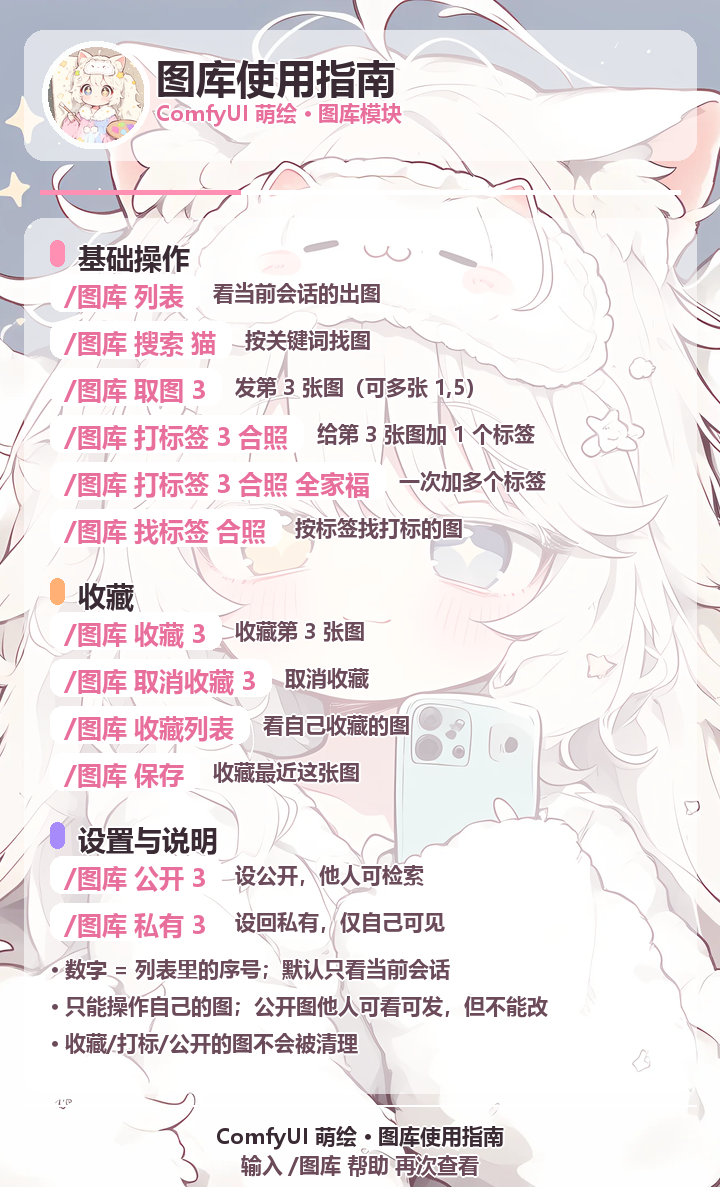
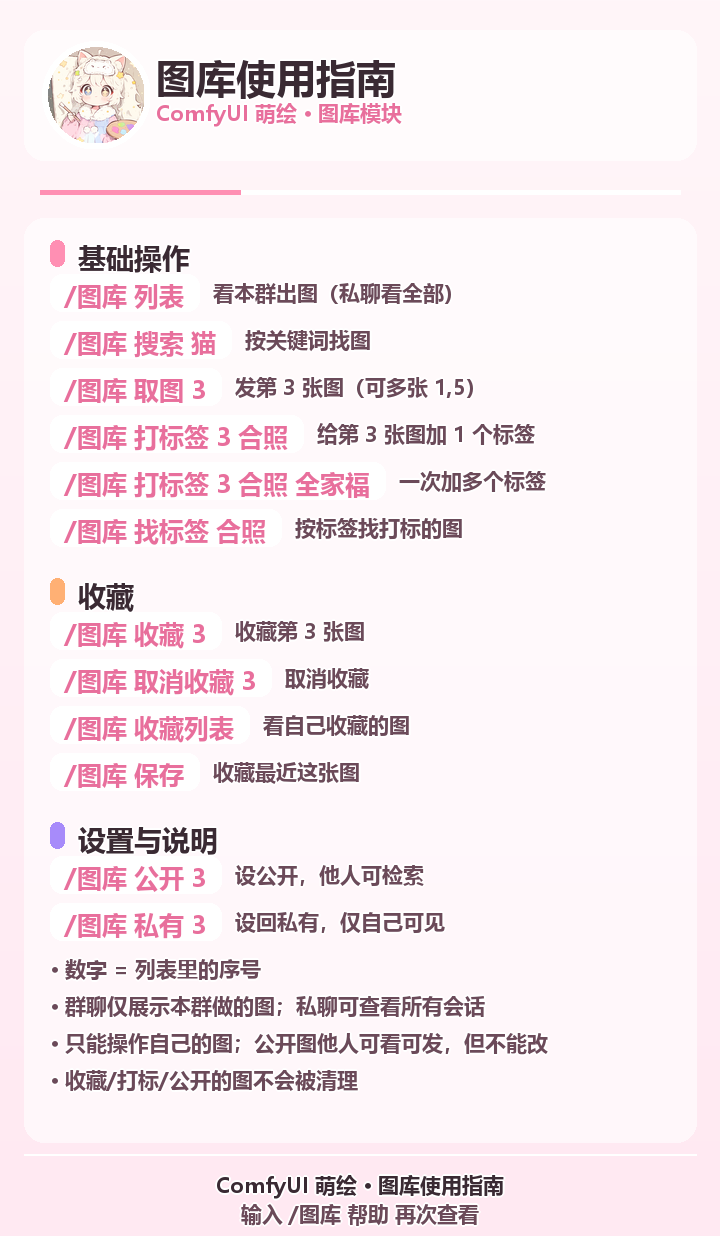
v4.6.2: 图库会话隔离策略调整（群聊仅本群，私聊看所有）
- 新增 _is_private_event(event) 判断私聊/群聊（优先 get_group_id，兜底 session_id）
- cmd_gallery session_scope：私聊跨会话(None)，群聊仅本群(event.session_id)
- comfyui_gallery LLM 工具召回/发送同步；管理员「全部」仍强制跨会话
- 帮助文字与 assets/gallery_help.png 文案同步更新

diff --git a/main.py b/main.py
@@ -3914,6 +3914,27 @@ class ComfyUIDrawPlugin(Star):
         bucket[sid] = ts_list
         return actual, ""
 
+    @staticmethod
+    def _is_private_event(event) -> bool:
+        """判断当前事件是否为私聊。
+
+        优先用 AstrBot 标准的 get_group_id()：群聊返回群号，私聊返回 None/空。
+        兜底看 session_id 是否含 group 标记（aiocqhttp 私聊 session_id 形如 private:xxx）。
+        """
+        if event is None:
+            return True
+        try:
+            get_g = getattr(event, "get_group_id", None)
+            if callable(get_g):
+                gid = get_g()
+                if gid:
+                    return False
+                return True
+        except Exception:
+            pass
+        sid = getattr(event, "session_id", "") or ""
+        return "group" not in sid.lower()
+
     def _can_operate_image(self, event, row: dict, owner: str = "") -> tuple[bool, str]:
         """图库「修改类操作」（打标签/删除/清空/改可见性等）的归属校验。
 
@@ -4178,10 +4199,13 @@ class ComfyUIDrawPlugin(Star):
             else:
                 sub = "list"
 
-        # 会话范围：默认仅当前会话（私聊=该私聊，群聊=该群），互不串看。
-        # 仅当使用「全部」子命令（管理员）时才放宽到所有会话。
-        # 注：原 cross_session 配置开关已弃用——按需求图库默认按会话隔离。
-        session_scope = None if all_view else (event.session_id or "")
+        # 会话范围：群聊仅本群可见（私聊/群聊互不串看）；私聊可跨会话查看所有。
+        # 仅当使用「全部」子命令（管理员）时强制放宽到所有会话。
+        # 注：原 cross_session 配置开关已弃用。
+        if all_view:
+            session_scope = None
+        else:
+            session_scope = None if self._is_private_event(event) else (event.session_id or "")
         # 用户隔离标识：始终按当前用户过滤，避免群聊里不同用户互相看到对方的图。
         # owner 为空（如事件拿不到发送者）时不隔离，仅作兜底。
         owner = getattr(event, "get_sender_id", lambda: "")() or ""
@@ -4202,14 +4226,14 @@ class ComfyUIDrawPlugin(Star):
             await self._send(
                 event,
                 "📚 图库指令说明（用 /图库 或 /gallery 均可）：\n"
-                "· 默认仅展示【当前会话】的图（私聊只看私聊，群聊只看该群）\n"
+                "· 群聊仅展示本群做的图；私聊可查看全部会话的图\n"
                 "· 列表 [页码]　查看图库（每页 5 条，显示总数/总页数）\n"
                 "· 搜索 <关键词>　按画面描述检索\n"
                 "· 打标签 [图] <标签...>　给图加标签（可用 /图库 打标签 或 /图库 标签）\n"
                 "· 找标签 <标签>　按标签取图\n"
                 "· 取图 <序号>　发某张图（序号指列表里的编号；可多张，逗号或空格隔开）\n"
                 "· 收藏 <序号> / 取消收藏 <序号>　收藏或取消收藏（可多张）\n"
-                "· 收藏列表 [页码]　查看自己收藏的图（★，同样默认仅当前会话）\n"
+                "· 收藏列表 [页码]　查看自己收藏的图（★，群聊仅本群，私聊看所有）\n"
                 "· 公开 <序号> / 私有 <序号>　设置图片可见性（公开后他人可检索）\n"
                 "· 保存 [标签...]　收藏当前这张图\n"
                 # "· 删除 <sha>　移入回收站；恢复 <sha> 从回收站找回；清空 <sha> 彻底删除\n"
@@ -4331,8 +4355,7 @@ class ComfyUIDrawPlugin(Star):
                 except ValueError:
                     pass
             eff_owner = "" if all_view else owner
-            # 收藏默认也按会话隔离（私聊收藏只在该私聊可见，群聊同理）；
-            # 仅「全部」子命令（管理员）才跨会话查看所有收藏。
+            # 收藏也遵循会话范围：群聊仅本群，私聊跨会话；「全部」子命令（管理员）强制跨会话。
             total = self.gallery.count_search(starred_only=True, owner=eff_owner, session=session_scope)
             total_pages = max(1, (total + page_size - 1) // page_size)
             page = min(page, total_pages)
@@ -5354,10 +5377,9 @@ class ComfyUIDrawPlugin(Star):
         if plugin.gallery is None:
             return "图库未启用或初始化失败，无法检索/收藏图片。"
         g = plugin.gallery
-        # 默认仅当前会话：LLM 召回/发送图时也只针对「当前会话」生成的图，
-        # 与 /图库 指令默认按会话隔离保持一致（不再受 cross_session 配置影响）。
-        session = getattr(event, "session_id", "") or ""
+        # 会话范围：群聊仅本群可见；私聊可跨会话召回/发送（与 /图库 指令一致）。
         # 用户隔离：始终按当前用户过滤，避免把别人的图发给当前用户。
+        session = None if plugin._is_private_event(event) else (getattr(event, "session_id", "") or "")
         owner = getattr(event, "get_sender_id", lambda: "")() or ""
 
         if mode == "recall":

diff --git a/CHANGELOG.md b/CHANGELOG.md
@@ -2,6 +2,14 @@
 
 本文件记录插件各版本的改动。版本号与 `metadata.yaml` 保持一致。
 
+## v4.6.2
+
+- **图库会话隔离策略调整**：群聊仅展示该群生成的图（本群可见），私聊可跨会话查看所有会话的图。
+  - 新增 `_is_private_event(event)` 辅助判断（优先 `get_group_id()`，兜底看 `session_id`）。
+  - `cmd_gallery` 的 `session_scope`：私聊 → 跨会话（`None`），群聊 → 本群（`event.session_id`）。
+  - `comfyui_gallery` LLM 工具召回/发送逻辑同步；管理员「全部」子命令仍强制跨会话。
+  - 帮助文字与 `assets/gallery_help.png` 帮助图文案同步更新（"群聊仅本群，私聊看所有"）。
+
 ## v4.6.1
 
 - **WebUI 大图查看器新增「标签」展示与编辑**：
